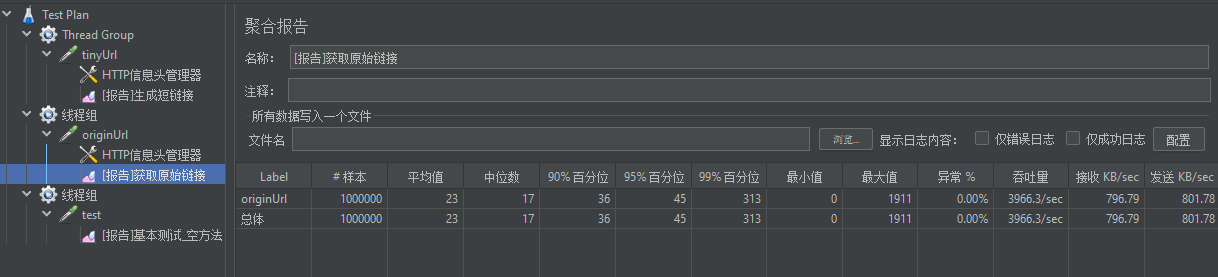
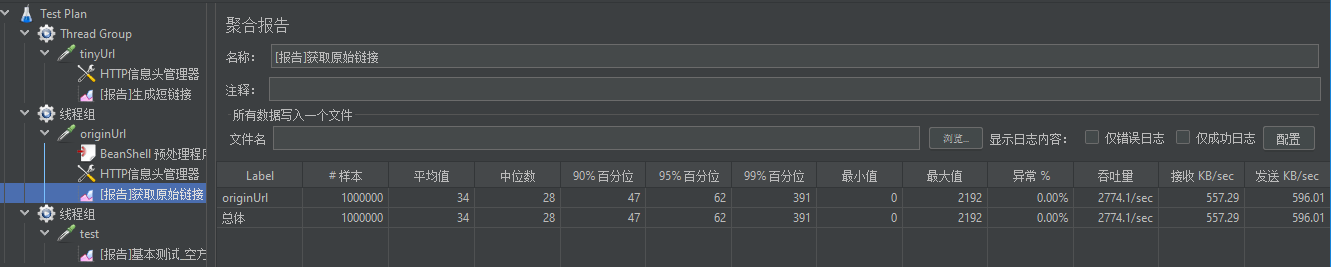
调整压测数据

diff --git a/src/main/java/com/sequoia/app/TinyUrlController.java b/src/main/java/com/sequoia/app/TinyUrlController.java
@@ -76,25 +76,14 @@ public class TinyUrlController {
             return ApiResult.error(StatusCodeEnum.PARAM_ERROR, "必须指定短链接地址");
         }
 
-        try {
-            String tinyCode = StringUtils.removeStart(urlRequest.getUrl(), tinyUrlPrefix);
-            if (!isValidTinyCode(tinyCode)) {
-                return ApiResult.error(StatusCodeEnum.PARAM_ERROR,
-                        "短链接不合格, 前缀必须是: " + tinyUrlPrefix
-                                + "短码[" + tinyCode + "]字符范围要在[0-9][a-z][A-Z]内 & 长度要小于等于" + Constant.TINYURL_MAX_LENGTH);
-            }
-
-            return tinyUrlService.getOriginUrlFuture(tinyCode)
-                    .thenApply(ApiResult::ok)
-                    .get(futureTimeoutMills, TimeUnit.MILLISECONDS);
-        } catch (TimeoutException e) {
-            log.error("getOriginUrl请求超时, {}", urlRequest, e);
-            return ApiResult.error(StatusCodeEnum.SERVE_TIMEOUT);
-        } catch (InterruptedException | ExecutionException e) {
-            log.error("getOriginUrl请求异常, {}", urlRequest, e);
-            return ApiResult.error(StatusCodeEnum.SERVE_ERROR);
+        String tinyCode = StringUtils.removeStart(urlRequest.getUrl(), tinyUrlPrefix);
+        if (!isValidTinyCode(tinyCode)) {
+            return ApiResult.error(StatusCodeEnum.PARAM_ERROR,
+                    "短链接不合格, 前缀必须是: " + tinyUrlPrefix
+                            + "短码[" + tinyCode + "]字符范围要在[0-9][a-z][A-Z]内 & 长度要小于等于" + Constant.TINYURL_MAX_LENGTH);
         }
 
+        return ApiResult.ok(tinyUrlService.getOriginUrl(tinyCode));
     }
 
     /**

diff --git a/src/test/java/com/sequoia/jmh/TinyUrlControllerBenchMark.java b/src/test/java/com/sequoia/jmh/TinyUrlControllerBenchMark.java
@@ -26,12 +26,12 @@ import java.util.concurrent.atomic.AtomicInteger;
  * @date 2022-04-10.
  */
 @BenchmarkMode({Mode.AverageTime, Mode.Throughput})
-//@Warmup(iterations = 1, time = 1)
-//@Measurement(iterations = 5, time = 5)
-//@Threads(4)
-//@Fork(1)
-@State(Scope.Thread)
-@OutputTimeUnit(TimeUnit.SECONDS)
+@Warmup(iterations = 1, time = 1)
+@Measurement(iterations = 5, time = 5)
+@Threads(5)
+@Fork(1)
+@State(Scope.Benchmark)
+@OutputTimeUnit(TimeUnit.MILLISECONDS)
 public class TinyUrlControllerBenchMark {
 
     private static final String tinyUrlPrefix = "http://seq.cn/";
@@ -61,18 +61,10 @@ public class TinyUrlControllerBenchMark {
     }
 
     public static void main(String[] args) throws RunnerException {
-//        URLClassLoader classLoader = (URLClassLoader) TinyUrlControllerBenchMark.class.getClassLoader();
-//        StringBuilder classpath = new StringBuilder();
-//        for(URL url : classLoader.getURLs())
-//            classpath.append(url.getPath()).append(File.pathSeparator);
-//        classpath.append("/D:/work/zymespace/benchmark/src/main/resources/").append(File.pathSeparator);
-//        System.out.print(classpath.toString());
-//        System.setProperty("java.class.path", classpath.toString());
-
         Options opt = new OptionsBuilder()
                 .include(TinyUrlControllerBenchMark.class.getName()+".*")
-                .warmupIterations(2)
-                .measurementIterations(5)
+//                .warmupIterations(2)
+//                .measurementIterations(5)
 //                .forks(1)
                 .shouldDoGC(true)
                 .result("result.json")

diff --git a/src/test/java/com/sequoia/app/TinyUrlControllerTest.java b/src/test/java/com/sequoia/app/TinyUrlControllerTest.java
@@ -113,15 +113,11 @@ public class TinyUrlControllerTest {
         Assertions.assertEquals(StatusCodeEnum.PARAM_ERROR.getCode(), result.getCode());
 
         String tinyCode = "sfsfsf";
-        CompletableFuture<String> future = new CompletableFuture();
-        future.completeExceptionally(new InterruptedException());
-        Mockito.when(tinyUrlService.getOriginUrlFuture(tinyCode)).thenReturn(future);
+        Mockito.when(tinyUrlService.getOriginUrl(tinyCode)).thenReturn(tinyCode);
         result = tinyUrlController.getOriginUrl(new UrlRequest(tinyCode));
         Assertions.assertEquals(StatusCodeEnum.SERVE_ERROR.getCode(), result.getCode());
 
-        CompletableFuture<String> future1 = new CompletableFuture();
-        future.completeExceptionally(new TimeoutException());
-        Mockito.when(tinyUrlService.getOriginUrlFuture(tinyCode)).thenReturn(future1);
+        Mockito.when(tinyUrlService.getOriginUrl(tinyCode)).thenReturn(tinyCode);
         result = tinyUrlController.getOriginUrl(new UrlRequest(tinyCode));
         Assertions.assertEquals(StatusCodeEnum.SERVE_TIMEOUT.getCode(), result.getCode());
 

diff --git a/src/main/java/com/sequoia/infrastructure/service/impl/TinyUrlStoreImpl.java b/src/main/java/com/sequoia/infrastructure/service/impl/TinyUrlStoreImpl.java
@@ -79,11 +79,6 @@ public class TinyUrlStoreImpl implements ITinyUrlStore {
         return true;
     }
 
-    private String getOriginUrl(String tinyCode) {
-        if (null == tinyCode) { return null; }
-        return TINY_ORIGIN_STORE.getIfPresent(tinyCode);
-    }
-
     /**
      * 获取 短码 对应的 锁
      * @param tinyCode 短码
@@ -212,8 +207,9 @@ public class TinyUrlStoreImpl implements ITinyUrlStore {
      * @return 原始长链接
      */
     @Override
-    public CompletableFuture<String> getOriginUrlFuture(String tinyCode) {
-        return CompletableFuture.completedFuture(this.getOriginUrl(tinyCode));
+    public String getOriginUrl(String tinyCode) {
+        if (null == tinyCode) { return null; }
+        return TINY_ORIGIN_STORE.getIfPresent(tinyCode);
     }
 
 }

diff --git a/src/test/java/com/sequoia/service/TinyUrlServiceTest.java b/src/test/java/com/sequoia/service/TinyUrlServiceTest.java
@@ -48,10 +48,10 @@ public class TinyUrlServiceTest {
 
     @Test
     public void testgetOriginUrlFuture() throws ExecutionException, InterruptedException {
-        String originUrl = tinyUrlService.getOriginUrlFuture(null).get();
+        String originUrl = tinyUrlService.getOriginUrl(null);
 //        Assertions.assertEquals(null, originUrl);
 
-        originUrl = tinyUrlService.getOriginUrlFuture("null").get();
+        originUrl = tinyUrlService.getOriginUrl("null");
         Assertions.assertEquals(null, originUrl);
     }
 

diff --git a/src/test/java/com/sequoia/service/TinyUrlStore1Test.java b/src/test/java/com/sequoia/service/TinyUrlStore1Test.java
@@ -107,10 +107,10 @@ public class TinyUrlStore1Test {
 
     @Test
     public void testgetOriginUrlFuture() throws ExecutionException, InterruptedException {
-        String originUrl = tinyUrlStore.getOriginUrlFuture(null).get();
+        String originUrl = tinyUrlStore.getOriginUrl(null);
         Assertions.assertEquals(null, originUrl);
 
-        originUrl = tinyUrlStore.getOriginUrlFuture("null").get();
+        originUrl = tinyUrlStore.getOriginUrl("null");
         Assertions.assertEquals(null, originUrl);
     }
 

diff --git a/src/main/java/com/sequoia/service/impl/TinyUrlServiceImpl.java b/src/main/java/com/sequoia/service/impl/TinyUrlServiceImpl.java
@@ -25,8 +25,8 @@ public class TinyUrlServiceImpl implements ITinyUrlService {
     }
 
     @Override
-    public CompletableFuture<String> getOriginUrlFuture(String tinyCode) {
-        return tinyUrlStore.getOriginUrlFuture(tinyCode);
+    public String getOriginUrl(String tinyCode) {
+        return tinyUrlStore.getOriginUrl(tinyCode);
     }
 
 }

diff --git a/src/main/java/com/sequoia/service/ITinyUrlService.java b/src/main/java/com/sequoia/service/ITinyUrlService.java
@@ -22,6 +22,6 @@ public interface ITinyUrlService {
       * @param tinyCode 短域名码
       * @return
       */
-     CompletableFuture<String> getOriginUrlFuture(String tinyCode);
+    String getOriginUrl(String tinyCode);
 
 }

diff --git a/src/main/java/com/sequoia/service/ITinyUrlStore.java b/src/main/java/com/sequoia/service/ITinyUrlStore.java
@@ -23,6 +23,6 @@ public interface ITinyUrlStore {
      * @param tinyUrl
      * @return
      */
-    CompletableFuture<String> getOriginUrlFuture(String tinyUrl);
+    String getOriginUrl(String tinyUrl);
 
 }

diff --git a/src/test/java/com/sequoia/ApiResultTest.java b/src/test/java/com/sequoia/ApiResultTest.java
@@ -25,4 +25,5 @@ public class ApiResultTest {
             log.info("{}", ApiResult.error(value));
         }
     }
+
 }

diff --git a/README.md b/README.md
@@ -126,15 +126,21 @@ http://localhost:8080/swagger-ui.html
 | 场景 | avg(ms)| tp99(ms) |tps | cpu(%) |
 | --- | --- | --- |--- |--- |
 |空方法 |16 | 147 | 5655 |71
-|取短链接(写)| 24 | 315 | 3824 |71
-|取长链接(读) |23 | 313 | 3966 |70
+|取短链接(写)| 29 | 391 | 3824 |71
+|取长链接(读) |34 | 391 | 3966 |70
 
 ![jmeter_thread_group_config](docs/images/jmeter_thread_group_config.png)   
 
 ![jmeter空压测](docs/images/jmeter_null_test.png)   
    
+jmeter写压测   
 ![jmeter写压测_配置](docs/images/jmeter_tiny_url_config.png)   
 
 ![jmeter写压测](docs/images/jmeter_tiny_url.png)    
+
+jmeter读压测
+![jmeter读压测_配置1](docs/images/jmeter_origin_url_config1.png) 
+
+![jmeter读压测_配置2](docs/images/jmeter_origin_url_config2.png) 
 
 ![jmeter读压测](docs/images/jmeter_origin_url.png)   
